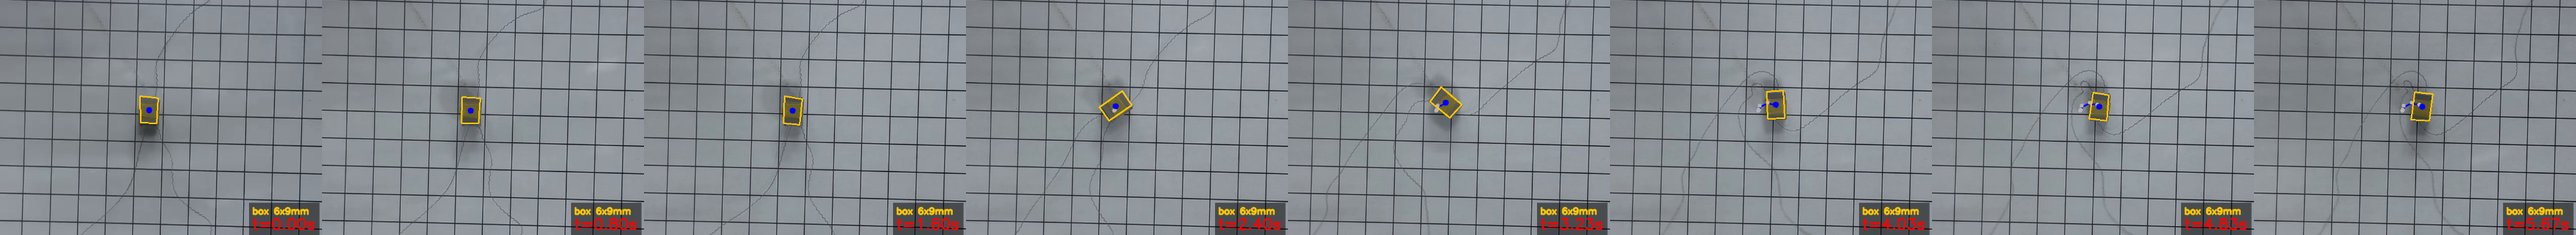
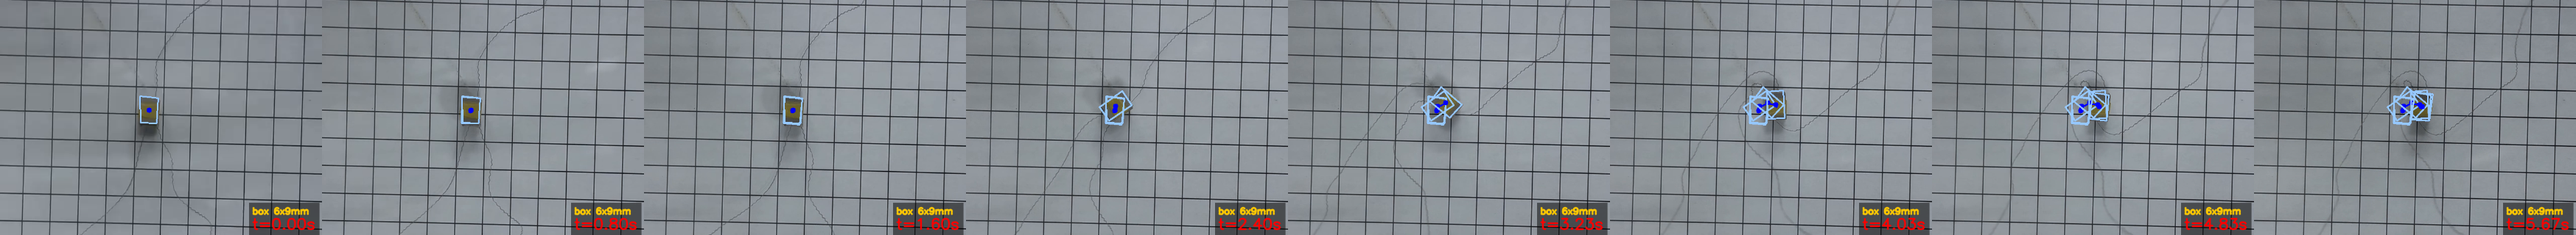
add film success file

diff --git a/film_success/analyze_film_success.py b/film_success/analyze_film_success.py
@@ -994,19 +994,22 @@ def _plot_trajectory_boxes(df, box_rec, mm_per_px, x0, y0, out_dir, stem, cut,
 
     # 8 個等間隔時間點，畫固定 device 尺寸的外框（中心=追蹤質心，朝向=追蹤角度）
     valid = np.where(np.isfinite(x) & np.isfinite(y))[0]
+    box_pts = []
     if len(valid) >= 8:
         idxs = valid[np.linspace(0, len(valid) - 1, 8, dtype=int)]
         for k in idxs:
             rect = _device_rect_mm(x[k], y[k], ang[k], olg, osh, lmm, smm)
             ax.plot(rect[:, 0], rect[:, 1], "--", lw=1.5,
                     color=(0.5, 0.7, 1.0), alpha=0.85)
+            box_pts.extend(rect.tolist())
     vp = np.vstack([x, y]).T
     vp = vp[~np.isnan(vp).any(axis=1)]
     if len(vp):
         ax.scatter([vp[0, 0]], [vp[0, 1]], s=110, c="green", zorder=5, label="Start")
         ax.scatter([vp[-1, 0]], [vp[-1, 1]], s=110, c="red", zorder=5, label="End")
-    # 座標範圍只用軌跡點算（與 position 圖一致），不納入外框頂點，避免被撐大
-    xlo, xhi, ylo, yhi = _square_limits(x, y)
+    # 座標範圍納入 device 外框頂點：位移小的影片（如原地旋轉）框比軌跡大，
+    # 只用軌跡點算會讓框超出畫面罩不住，故把框頂點也納入確保完整顯示。
+    xlo, xhi, ylo, yhi = _square_limits(x, y, extra_pts=box_pts)
     ax.set_xlim(xlo, xhi); ax.set_ylim(ylo, yhi)
     ax.invert_yaxis()    # 與 position 圖一致：反向 y 軸符合相機視角
     ax.set_aspect("equal", adjustable="box")
@@ -1089,28 +1092,19 @@ def _make_camera_composite(video_path, df, mm_per_px, out_dir, stem, fps, cfg,
                 pts.append((int(round(xpx[k])), int(round(ypx[k]))))
         for i in range(1, len(pts)):
             cv2.line(frame, pts[i - 1], pts[i], (255, 0, 0), 2)
-        # 過去 snapshot 點：小灰點（淡化，不畫框，避免一堆殘留框看起來像選錯）
-        # 有標註時用標註中心（與當前框同一基準），避免歷史點與框基準不一致看起來像選錯
-        for j in range(si):
+        # 累積外框：畫「目前及之前」所有 snapshot 的 device 外框（淺藍），
+        # 與先前版本一致，可看出 device 沿軌跡的逐步移動/旋轉。
+        LIGHT_BLUE = (255, 200, 150)   # BGR 淺藍
+        for j in range(si + 1):
             pf = int(snap_frames[j])
-            if pf in anno_quad:
-                q = anno_quad[pf]
-                gx, gy = int(q[:, 0].mean()), int(q[:, 1].mean())
-            else:
+            if pf in anno_quad:                      # 有標註：直接畫你標的 4 角
+                bq = anno_quad[pf]
+            else:                                    # 無標註：用偵測+9×6mm 框
                 kk = sel[j]
-                gx, gy = int(round(xpx[kk])), int(round(ypx[kk]))
-            cv2.circle(frame, (gx, gy), 4, (180, 180, 180), -1)
-        # 只畫「當下時間點」的 device 外框 + 中心點（清楚顯示此刻框住 device）
-        if int(fnum) in anno_quad:
-            # 直接畫你標的 4 角四邊形（你的真值）；中心 = 4 角質心
-            quad = anno_quad[int(fnum)]
-            cx, cy = int(round(quad[:, 0].mean())), int(round(quad[:, 1].mean()))
-            cv2.polylines(frame, [quad], True, (0, 200, 255), 2)
-        else:
-            cx, cy = int(round(xpx[k0])), int(round(ypx[k0]))
-            box = device_box_px(xpx[k0], ypx[k0], ang[k0])
-            cv2.polylines(frame, [box], True, (0, 200, 255), 2)
-        cv2.circle(frame, (cx, cy), 6, (255, 0, 0), -1)
+                bq = device_box_px(xpx[kk], ypx[kk], ang[kk])
+            bcx, bcy = int(round(bq[:, 0].mean())), int(round(bq[:, 1].mean()))
+            cv2.polylines(frame, [bq], True, LIGHT_BLUE, 2)
+            cv2.circle(frame, (bcx, bcy), 5, (255, 0, 0), -1)
         # 標註（右下，黑底）：時間 + device 框實體尺寸
         h, w = frame.shape[:2]
         font = cv2.FONT_HERSHEY_SIMPLEX
